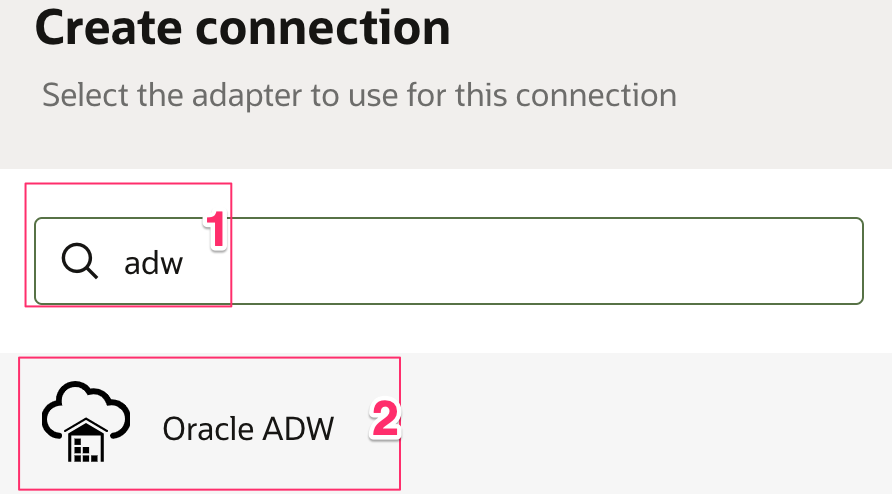
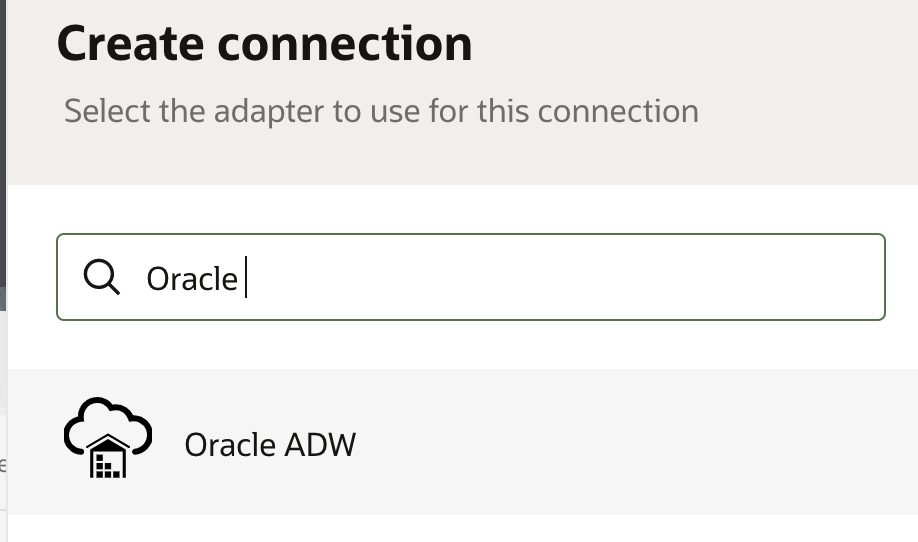
corecomp
corecomp

Changed region(s): [[0.0, 0.0, 0.9686, 0.6377], [0.0, 0.6984, 0.454, 0.9413], [0.0, 0.9717, 0.454, 1.0]]

diff --git a/oic-gen3/core-competencies/get-started-oic/create-connections/create-connections.md b/oic-gen3/core-competencies/get-started-oic/create-connections/create-connections.md
@@ -25,7 +25,7 @@ Create a connection with the Oracle Autonomous Data Warehouse Adapter.
 
 1. In the left Navigation pane, click **Design** > **Connections** > click **Create**
 
-2. In the *Create Connection* dialog, select the **Oracle ADW** adapter to use for this connection. To find the adapter, enter `adw` in the search field. Click on the highlighted adapter and hit **Select**.
+2. In the *Create Connection* dialog, select the **Oracle ADW** adapter to use for this connection. To find the adapter, enter `Oracle` in the search field. Click on the highlighted adapter and hit **Select**.
     ![Create ADW connection](images/create-adw-connection.png)
 
 3. In the *Create Connection* dialog, enter the following information and click **Create**
@@ -85,11 +85,11 @@ You may now **proceed to the next lab**.
 
 ## Learn More
 
-* [Oracle Integration ADW Adapter](https://www.oracle.com/pls/topic/lookup?ctx=en/cloud/paas/integration-cloud&id=ICADW-GUID-06231D46-0B10-4AB2-A515-947B1D9A92BC)
+* [Oracle Integration ADW Adapter](https://docs.oracle.com/en/cloud/paas/application-integration/adw-adapter/oracle-autonomous-data-warehouse-adapter-capabilities.html)
 
-* [Oracle Integration FTP Adatper](https://www.oracle.com/pls/topic/lookup?ctx=en/cloud/paas/integration-cloud&id=ICSFT-GUID-59194DED-31DC-4E3D-893C-0064D7CC65A0)
+* [Oracle Integration FTP Adatper](https://docs.oracle.com/en/cloud/paas/application-integration/ftp-adapter/ftp-adapter-capabilities.html#GUID-59194DED-31DC-4E3D-893C-0064D7CC65A0)
 
 ## Acknowledgements
 * **Author** - Kishore Katta, Product Management - Oracle Integration
 * **Author** - Subhani Italapuram, Technical Director, Oracle Integration Product Management
-* **Last Updated By/Date** - Kishore Katta, July 2022
+* **Last Updated By/Date** - Subhani Italapuram, Sep 2022

diff --git a/oic-gen3/core-competencies/get-started-oic/run-demo/run-demo.md b/oic-gen3/core-competencies/get-started-oic/run-demo/run-demo.md
@@ -119,9 +119,9 @@ Verify sales orders file archived in OCI Object storage
 
 ## Learn More
 
-* [Activate Integration](https://docs.oracle.com/en/cloud/paas/integration-cloud/integrations-user/activate-and-deactivate-integrations.html)
+* [Activate Integration](https://docs.oracle.com/en/cloud/paas/application-integration/integrations-user/activate-and-deactivate-integrations.html)
 
-* [Monitor Integration](https://docs.oracle.com/en/cloud/paas/integration-cloud/integrations-user/monitor-integrations-runtime.html)
+* [Monitor Integration](https://docs.oracle.com/en/cloud/paas/application-integration/integrations-user/track-integration-instances.html#GUID-46A7C0A0-CBE4-4F1B-9B45-62A5AFA89D74)
 
 ## Acknowledgements
 * **Author** - Kishore Katta, Product Management - Oracle Integration

diff --git a/oic-gen3/core-competencies/get-started-oic/create-flow/create-flow.md b/oic-gen3/core-competencies/get-started-oic/create-flow/create-flow.md
@@ -207,9 +207,7 @@ You may now **proceed to the next lab**.
 
 ## Learn More
 
-* [Scheduled Integration](https://docs.oracle.com/en/cloud/paas/integration-cloud/integrations-user/create-scheduled-integrations.html)
-
-* [Format Options](https://docs.oracle.com/en/cloud/paas/autonomous-database/adbdi/index.html)
+* [Getting Started with Oracle Integration](https://docs.oracle.com/en/cloud/paas/application-integration/index.html)
 
 
 ## Acknowledgements

diff --git a/oic-gen3/core-competencies/get-started-oic/introduction/introduction.md b/oic-gen3/core-competencies/get-started-oic/introduction/introduction.md
@@ -49,7 +49,7 @@ You may now **proceed to the next lab**.
 
 ## Learn More
 
-* [Oracle Integration 3](https://docs.oracle.com/en/cloud/paas/integration-cloud/index.html)
+* [Getting Started with Oracle Integration 3](https://docs.oracle.com/en/cloud/paas/application-integration/index.html)
 
 ## Acknowledgements
 * **Author** - Kishore Katta, Technical Director, Oracle Integration Product Management

diff --git a/oic-gen3/core-competencies/get-started-oic/setup/setup.md b/oic-gen3/core-competencies/get-started-oic/setup/setup.md
@@ -169,7 +169,6 @@ If the permissions are configured correctly, you should be able to list, read, a
 
 You may now **proceed to the next lab**.
 
-
 ## Acknowledgements
 * **Author** - Kishore Katta, Product Management - Oracle Integration
 * **Last Updated By/Date** - Kishore Katta, May 2022
